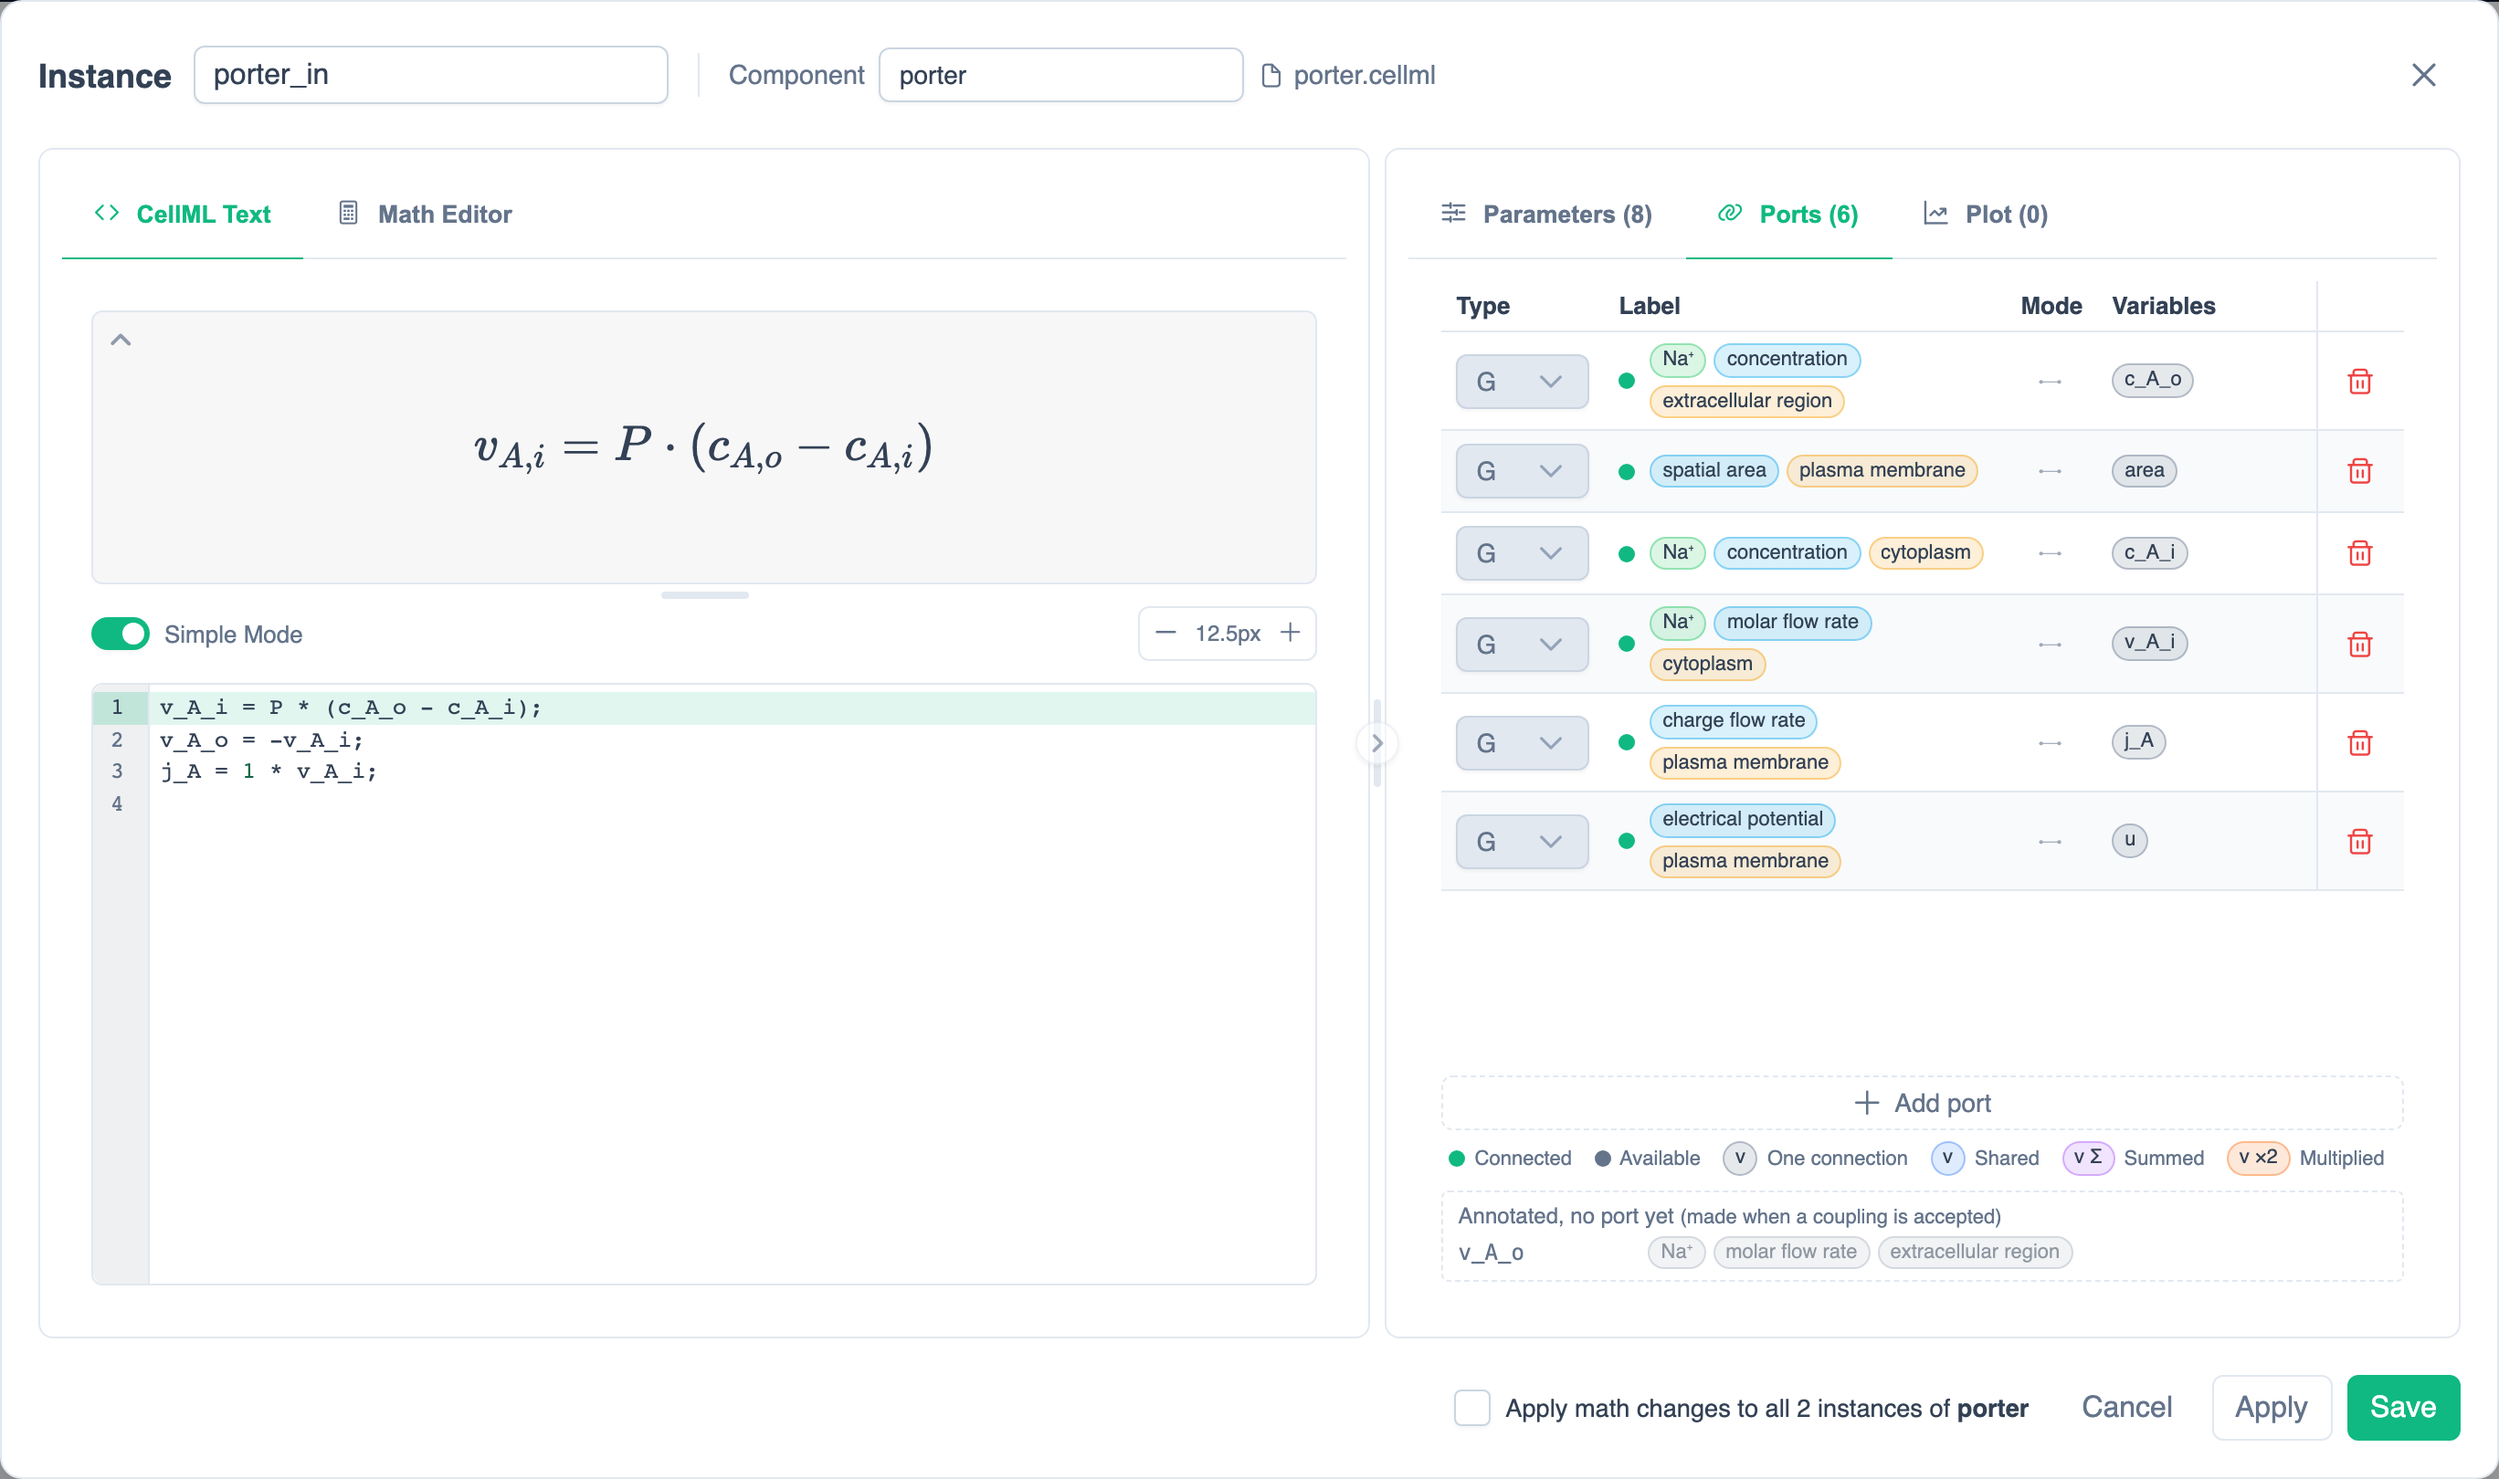
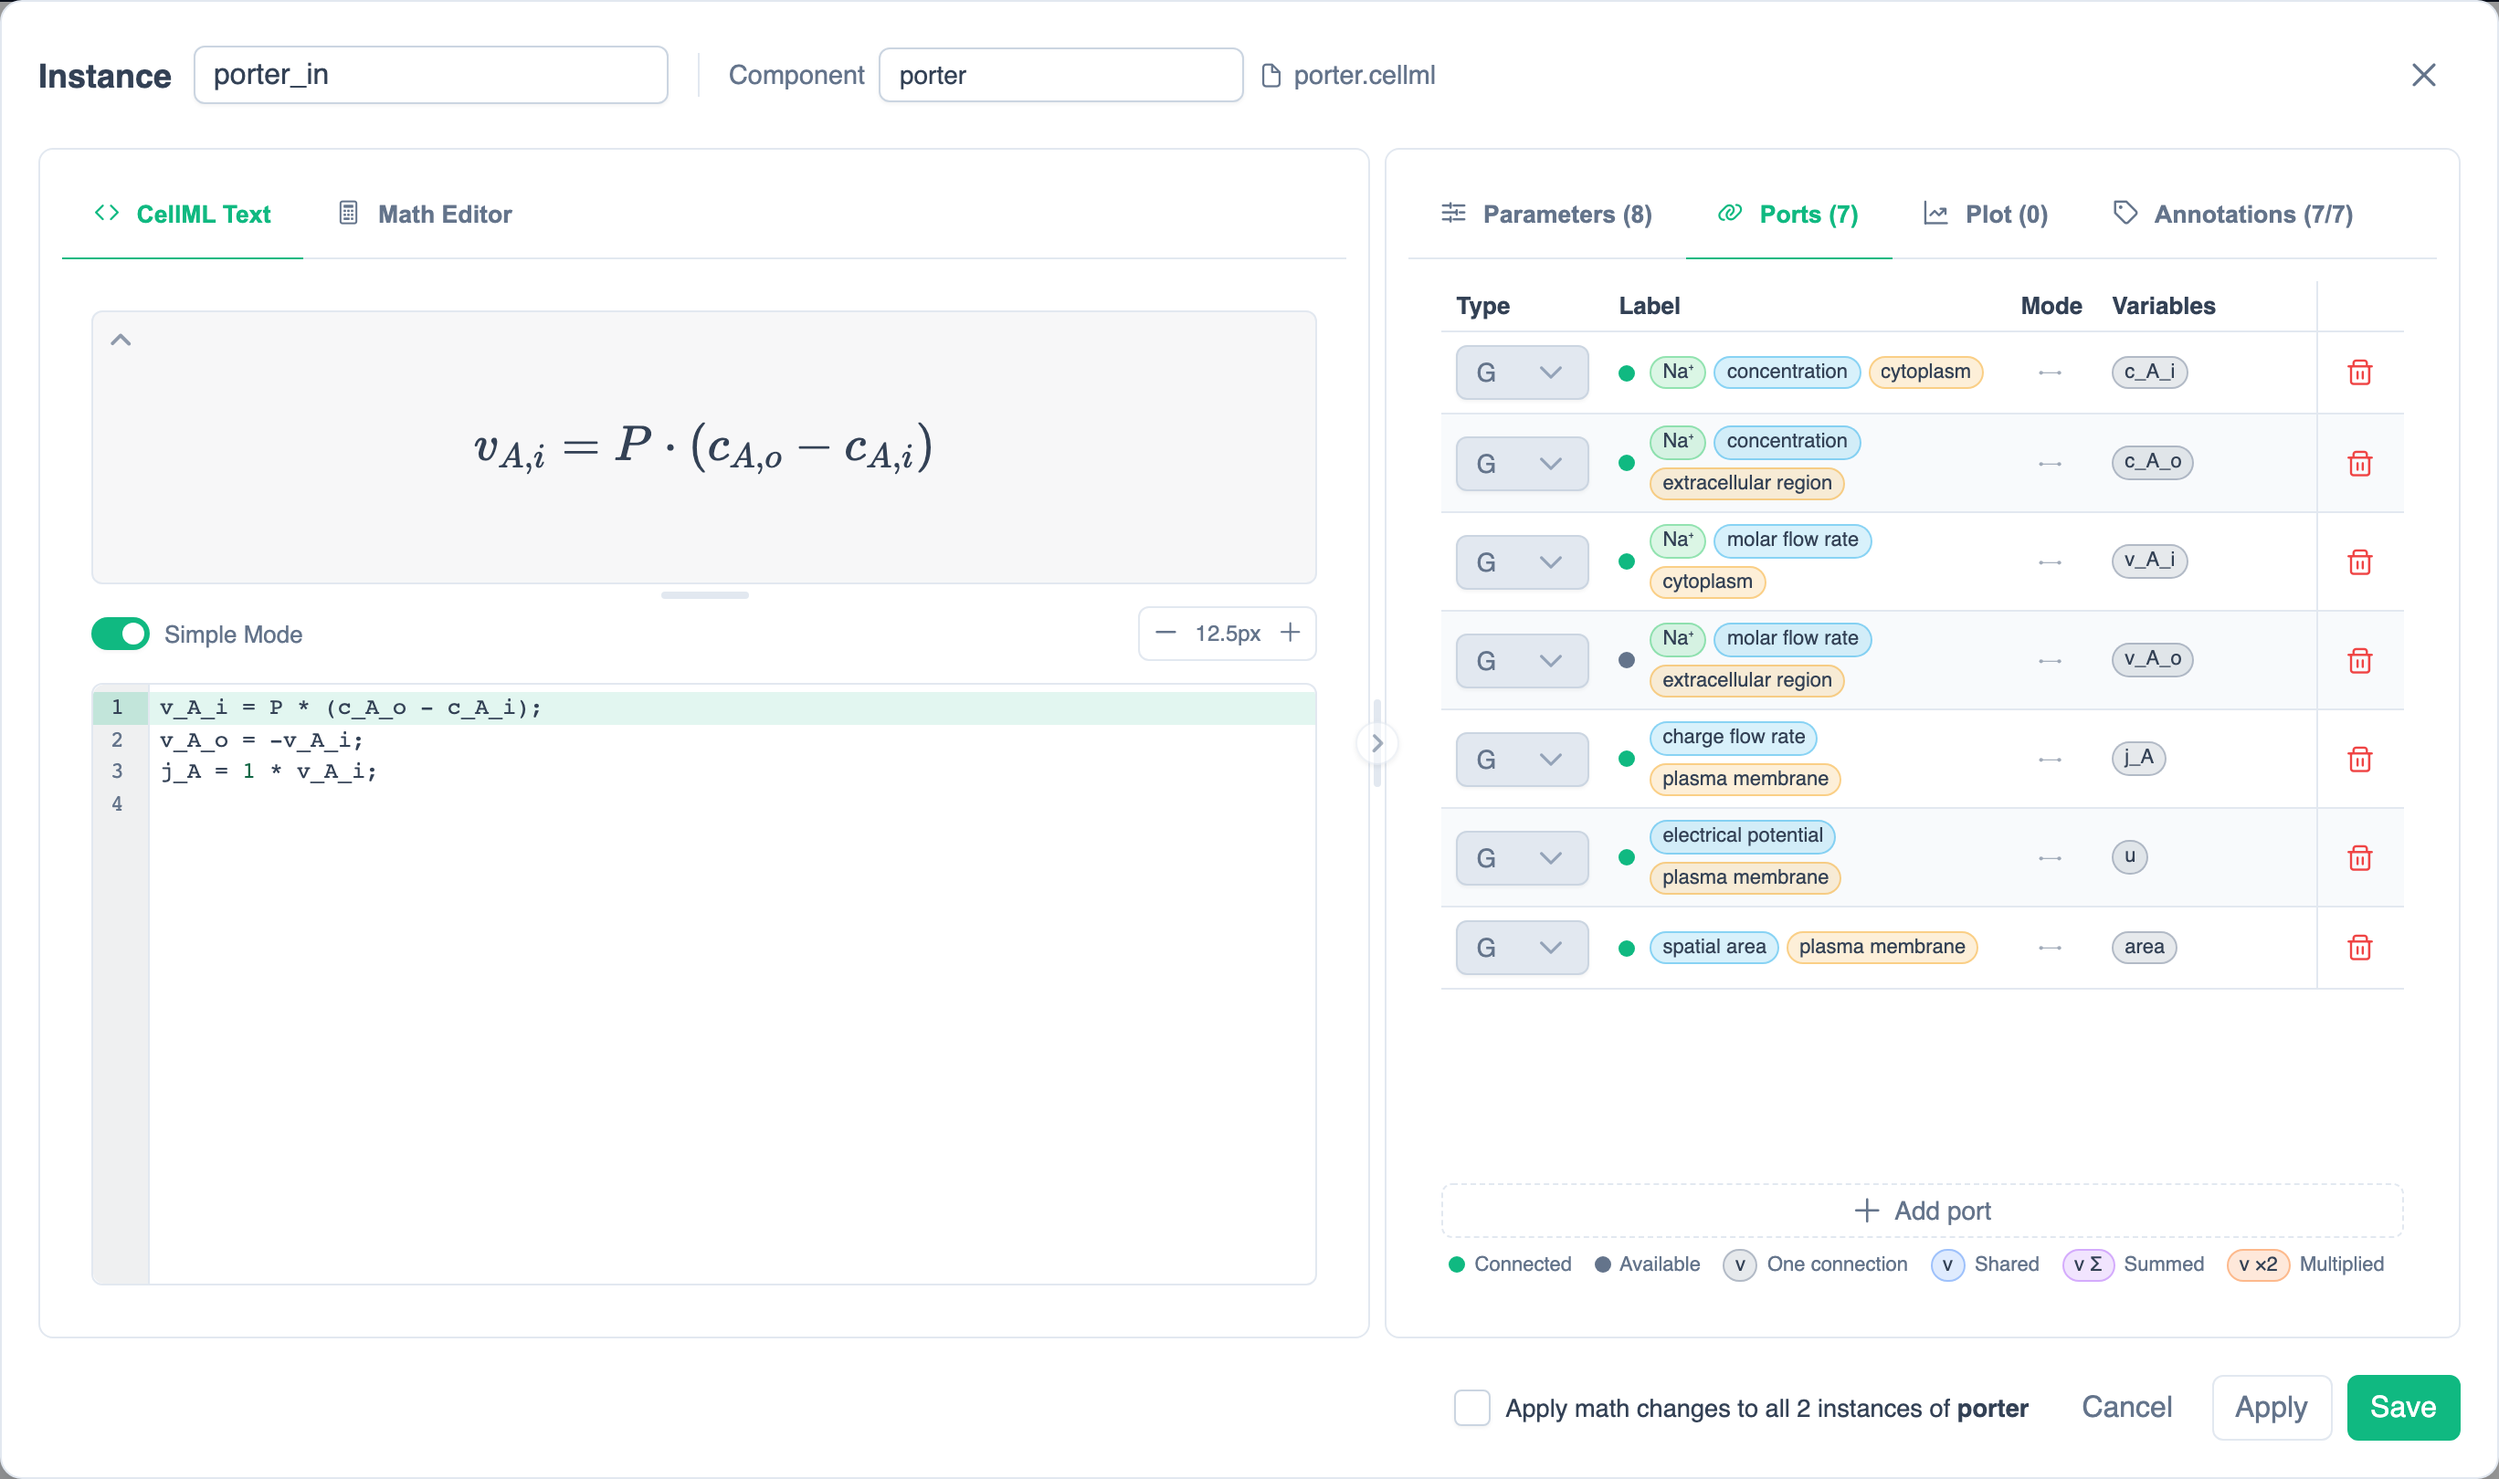
Document the Annotations tab and refresh the annotation screenshots

diff --git a/tests/playwright/docs_screenshots.py b/tests/playwright/docs_screenshots.py
@@ -34,7 +34,11 @@ from test_annotations import (  # noqa: E402
     TOY_HELD,
     TOY_MATHS,
     TOY_SIDECARS,
+    apply_annotations,
     import_files,
+    kind_only_pool_sidecars,
+    mock_ontology_services,
+    node_named,
     open_app,
     toy,
 )
@@ -462,6 +466,32 @@ def annotations_port_chips(page):
     save(dialog, "annotations-port-chips")
 
 
+def annotations_tab(page):
+    # On the context, not the page: the isolation service worker would hide its requests from page routes.
+    mock_ontology_services(page.context, [])
+    open_app(page)
+    apply_annotations(page, [toy(name) for name in TOY_MATHS], kind_only_pool_sidecars(), toy(TOY_APICOORDS), TOY_HELD)
+    wait_for_settled_transform(page)
+    dismiss_toasts(page)
+    node_named(page, "cell").dblclick()
+    dialog = page.locator(".module-editor-dialog")
+    dialog.get_by_role("tab", name=re.compile(r"Annotations \(")).click()
+    dialog.get_by_label("Show constants").check()
+    row = dialog.locator(".annotation-row[data-variable=c_A]")
+    row.locator("[data-test=annotate]").click()
+    row.locator("[data-test=property]").click()
+    page.get_by_role("option", name=re.compile(r"OPB:00340")).click()
+    row.locator("[data-test=species] input").fill("sodium")
+    options = page.locator(".p-autocomplete-option")
+    expect(options.filter(has_text="CHEBI:26708")).to_be_visible(timeout=10000)
+    options.filter(has_text="CHEBI:29101").first.click()
+    row.locator("[data-test=location]").get_by_text("This compartment", exact=True).click()
+    expect(row.locator("[data-test=derived]")).to_contain_text("port will be created")
+    page.mouse.move(5, VIEWPORT["height"] - 5)
+    page.wait_for_timeout(400)
+    save(dialog, "annotations-tab")
+
+
 SHOTS = {
     "phlynx_ui": phlynx_ui,
     "toolbar": toolbar,
@@ -484,6 +514,7 @@ SHOTS = {
     "annotations-apply-dialog": annotations_apply_dialog,
     "annotations-suggestions": annotations_suggestions,
     "annotations-port-chips": annotations_port_chips,
+    "annotations-tab": annotations_tab,
 }
 
 

diff --git a/docs/guides/annotation-coupling.md b/docs/guides/annotation-coupling.md
@@ -21,6 +21,8 @@ This guide uses a small synthetic model, whose files are in `tests/resources/ann
 
 ## Annotate a Module with a Sidecar {#write-a-sidecar}
 
+You can write a sidecar by hand, as below, or fill it in from the Instance Editor's [Annotations tab](#annotations-tab), which writes the same file.
+
 A sidecar is a Turtle file beside the module's CellML. It annotates one component, and each variable you want coupled. Subjects are `<./{file}#{component}>` for the component and `<./{file}#{component}.{variable}>` for a variable, or `<./{file}#{id}>` for a variable with a CellML `id`.
 
 ```turtle
@@ -45,6 +47,34 @@ m:pool.c_A bqbiol:isVersionOf opb:00340 ;
 A flux always means the rate **into** the located entity: the porter's `v_A_i` is into the cytoplasm and `v_A_o` into the extracellular region. Contributions are always added ×1, so a factor such as a charge number belongs in the math, as its own variable (the porter's `j_A = 1·v_A_i`), which you then annotate.
 
 PhLynx derives each variable's role from this, and never reads it from the file: a self-located quantity is an **owner** (or, for a flux, the **sum** of the fluxes into it); a relatively located one is a **reader** (or a **contributor** to a sum). See [Roles](../reference/annotation-vocabulary.md#roles).
+
+## Annotate in the Instance Editor {#annotations-tab}
+
+The Instance Editor's **Annotations** tab (tag icon) edits the module's sidecar for you. Its count, such as **Annotations (1/4)**, is how many listed variables are annotated.
+
+![The Annotations tab of the toy pool, annotating c_A as the Na⁺ concentration of the compartment](../assets/images/annotations-tab.png){.align-center width="800px"}
+
+- **Annotations belong to the math, not the instance.** Every instance of the math shares them; the banner says how many (**Shared by 3 instances**). Each instance's location still comes from its own ApiCoord.
+- **Module** sets the component's kind: **Compartment**, **Membrane**, **Transporter** (with its UniProt accession) or **None**.
+- Each row is a variable: annotated (chips, with **Edit** and **Clear**) or not annotated (**Annotate…**). **All**, **Unannotated** and **Annotated** filter the rows, and **Show constants** adds the constants. The variable of integration is never listed.
+- **Annotate…** or **Edit** opens a form:
+  - **Property**: one of the six coupling properties: concentration (`OPB:00340`), amount flow (`OPB:00592`), fluid volume (`OPB:00154`), area (`OPB:00295`), electrical potential (`OPB:00506`) or charge flow (`OPB:00318`).
+  - **Species**: type a name. Common species and those other sidecars in the workspace use come first, then ChEBI results [looked up online](#ontology-lookup). You can also paste a ChEBI CURIE or IRI.
+  - **Where**: **This compartment**, **Its membrane**, **Cytoplasm**, **Extracellular** or **Plasma membrane**.
+  - **Port** shows the role, multiport mode and whether the port will be created, exists or is connected.
+- Triples the tab can't show are listed under **Other annotations** and kept as written.
+
+Edits are a draft until you click **Apply** or **Save**; **Cancel** asks before discarding them. A transporter can't be saved without a UniProt accession. Editing a template module's math asks for a new component name first, as other math edits do. One undo reverts the sidecar and every instance's ports together.
+
+### Ontology Lookup {#ontology-lookup}
+
+Species are looked up in ChEBI, and transporter accessions in reviewed UniProt entries, as you type. PhLynx uses EBI's [OLS](https://www.ebi.ac.uk/ols4/) and [UniProt](https://www.uniprot.org/), which need no account. Only the terms you choose are saved, as CURIEs. Labels found are remembered in the browser for 30 days, so chips show names such as "sodium(1+)" instead of CURIEs. Obsolete terms are marked.
+
+Offline, the six properties, the five places, the common species, remembered labels and pasted CURIEs or accessions still work.
+
+### Ports from Annotations {#auto-ports}
+
+Every variable annotated with a property and a place has an annotated port, on every instance of the math. Ports are added, updated or removed when you apply or save, and when annotations are imported, pasted or a module is placed. If an edit would drop couplings, PhLynx asks first (**Removes N couplings on M connections**). A port you made by label is left as it is, beside the annotated one.
 
 ## Apply the Annotations {#apply}
 
@@ -86,13 +116,13 @@ ApiCoords say what an apical facet faces (the lumen, layer 0 of the cell's host)
 
 ## Annotated Ports {#annotated-ports}
 
-In the Instance Editor's **Ports** tab, and in the Connections dialog, an annotated port shows its meaning as chips in place of the label: species (green), property (blue) and location (amber). Its type and multiport mode are set by the annotation and can't be changed. The text comes from a small table of ontology labels; terms it doesn't know show as their CURIE.
+In the Instance Editor's **Ports** tab, and in the Connections dialog, an annotated port shows its meaning as chips in place of the label: species (green), property (blue) and location (amber). Its type and multiport mode are set by the annotation and can't be changed. The text comes from a table of common terms and the labels [looked up online](#ontology-lookup); other terms show as their CURIE.
 
-![The Ports tab of porter_in: chips instead of labels, and an annotated variable with no port yet](../assets/images/annotations-port-chips.png){.align-center width="800px"}
+![The Ports tab of porter_in: chips instead of labels](../assets/images/annotations-port-chips.png){.align-center width="800px"}
 
 Hover or click the chips for the detail: each term's IRI, where the location resolves on the instance's ApiCoord (for example `coord_porter_in → coord_cell → scope_tube`), the sidecar subject, and, for a mirrored port, where it was copied from. A low-confidence location has a dashed outline.
 
-Ports are made when a coupling is accepted, not when an instance is placed. Annotated variables with no port yet are listed greyed under **Annotated, no port yet**.
+Each annotated variable has its port from the start; see [Ports from Annotations](#auto-ports).
 
 An instance added from the library rather than by Apply has no ApiCoord, so it gets no suggestions.
 

diff --git a/docs/reference/ui-overview.md b/docs/reference/ui-overview.md
@@ -130,7 +130,7 @@ The header holds the **Instance** name (unique), the **Component** name and the 
 ![Instance Editor on the Ports tab](../assets/images/edit-module-detail.png){.align-center width="800px"}
 
 * **Left pane:** **CellML Text** or **Math Editor**, two views of the same equations; see [Writing CellML](../guides/writing-cellml.md).
-* **Right pane:** **Parameters**, **Ports** and **Plot** tabs (collapsible, resizable).
+* **Right pane:** **Parameters**, **Ports**, **Plot** and **Annotations** tabs (collapsible, resizable).
 * **Footer:** **Cancel**, **Apply** (save and keep editing) and **Save** (Ctrl/Cmd+Enter). **Apply math changes to all N instances** also updates instances sharing the component.
 
 ### Parameters tab {#parameters-tab}
@@ -175,6 +175,10 @@ Each row on the **Ports** tab exposes variables through a port; hover the dot by
 | **Variables** | The variables the port exposes. On a multiport, click a variable's chip to cycle **True**, **Sum** and **Multiply** (with a factor); see [Ports that take several connections](./valid-port-configurations.md#multiports). |
 
 **Add port** adds a row; the trash icon removes one.
+
+### Annotations tab {#annotations-tab}
+
+Says what each variable means (its property, species and place), shared by every instance of the math. Annotated variables get ports that couple by meaning. Species are looked up online as you type. See [Annotate in the Instance Editor](../guides/annotation-coupling.md#annotations-tab).
 
 ---
 
